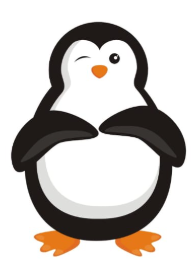
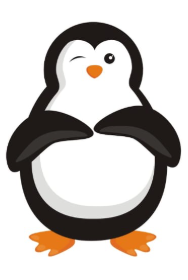
upload_success ist fertig

diff --git a/upload_sucess.html b/upload_sucess.html
@@ -8,9 +8,9 @@
 </head>
 <body>
     <div class="return-message">
-        <h2>Erfolgreich Hochgeladen!</h2>
+        <h2>Erfolgreich Hochgeladen !</h2>
         <img src="pinguin1.png" alt="Pinguin">
-        <button onclick="window.history.back()">Zurück</button>
+        <button onclick="window.location.href='student-dashboard.html'">Zurück</button>
         </div>
     </div>
 </body>

diff --git a/style.css b/style.css
@@ -51,11 +51,11 @@ body {
     text-align: center;
 }
 
-.return-message image{
-    width: 110px;
+.return-message img{
+    width: 250px;
     height: auto;
     display: block;
-    margin: 0 auto 10px auto ;
+    margin: 0 auto 20px auto;
 }
 /*Kommentar Ende*/
 
